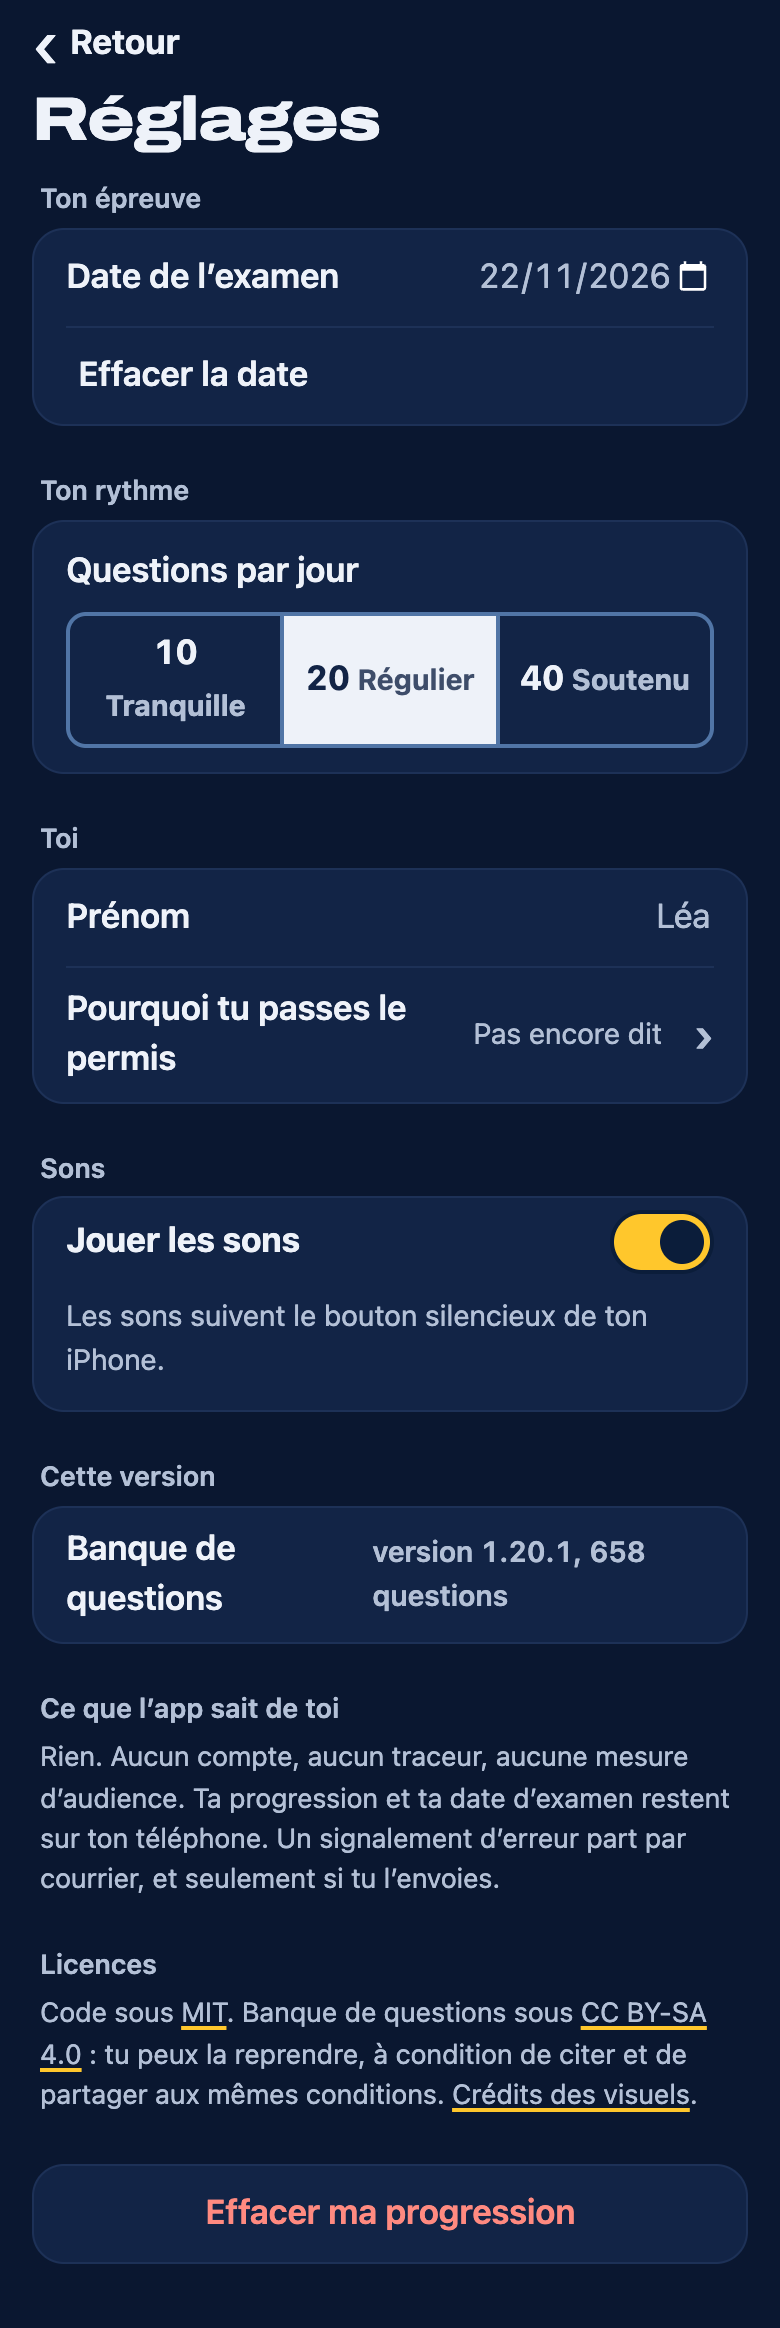
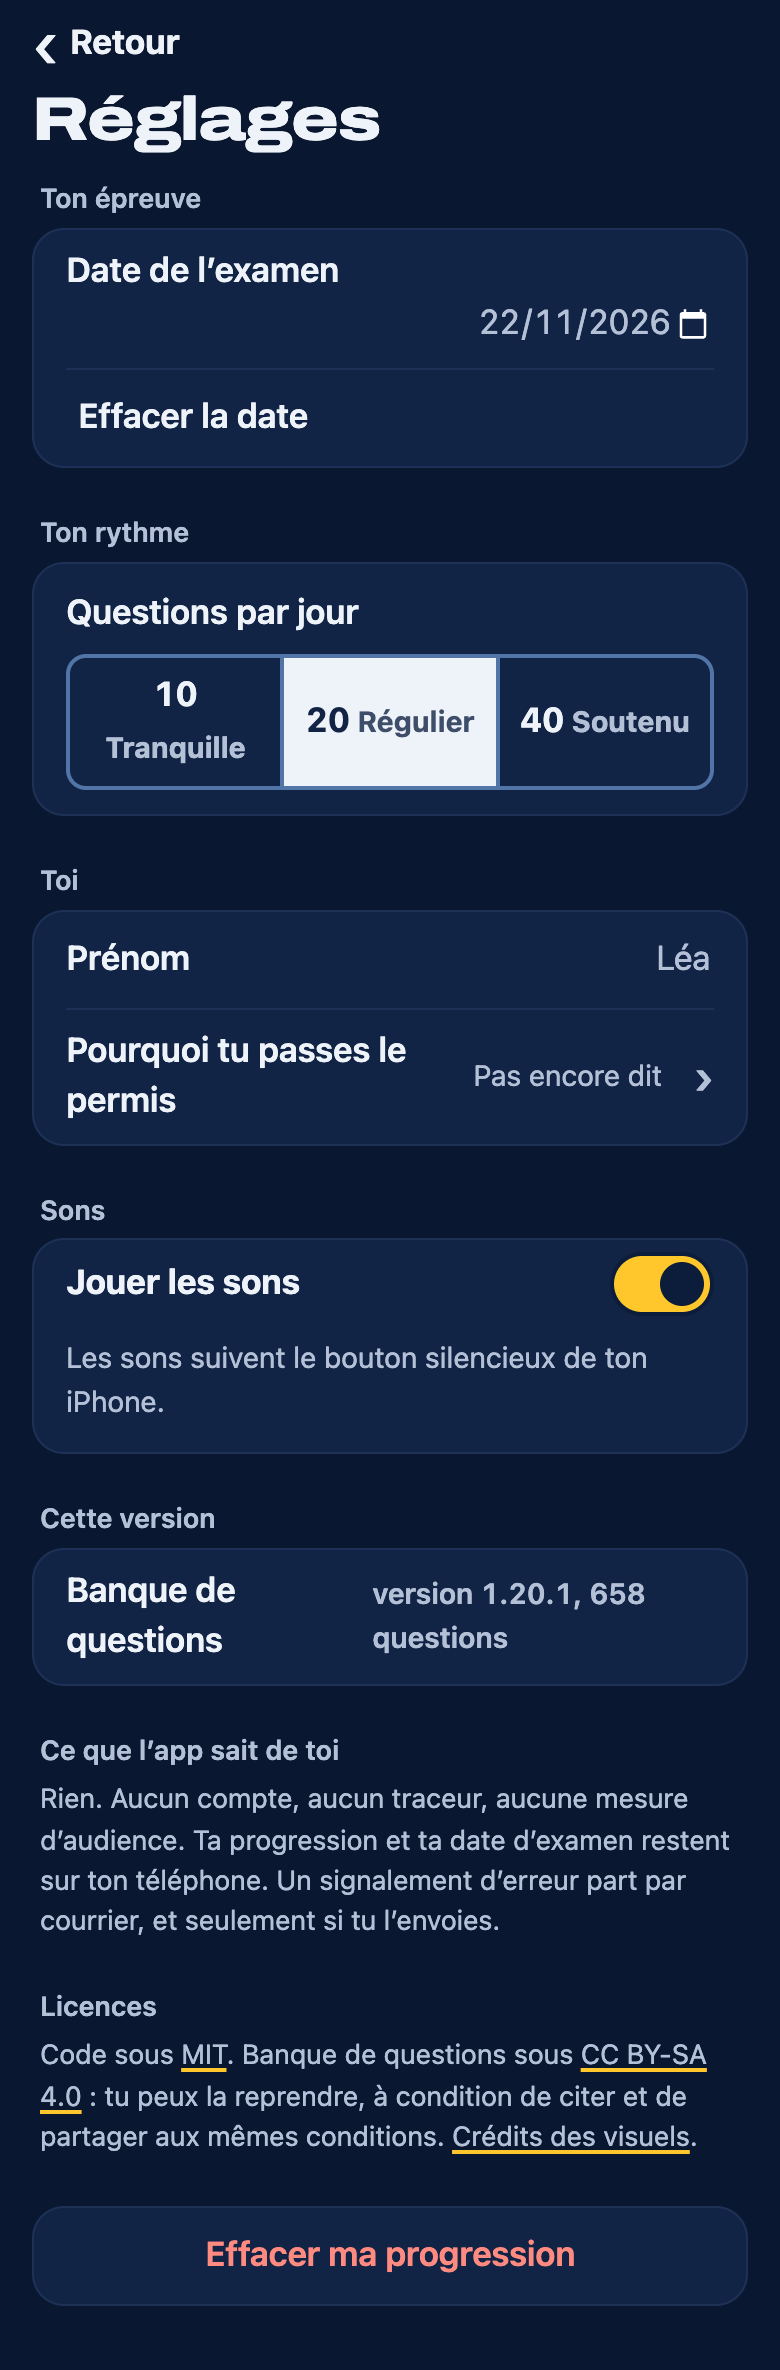
Réglages sans débordement à gros corps, focus après Effacer, meta de l'app, Retour du départ vers Réglages

diff --git a/src/styles/app-ecrans.css b/src/styles/app-ecrans.css
@@ -405,7 +405,8 @@ html[data-app] .memo__source .marque {
 /* ------------------------------------------------------------ Les réglages
    Groupés comme ceux d'iOS : un petit titre doux, une carte de cellules à
    filet dessous. Le contrôle segmenté du rythme se partage la largeur. */
-html[data-app] .reglagesApp { display: grid; gap: 1.5rem; max-width: none; }
+html[data-app] .reglagesApp { display: grid; grid-template-columns: minmax(0, 1fr); gap: 1.5rem; max-width: none; }
+html[data-app] .reglagesApp > section { min-width: 0; }
 html[data-app] .reglagesApp__titre {
   margin: 0 0 0.4rem 0.25rem;
   font-size: 0.85rem;
@@ -414,8 +415,10 @@ html[data-app] .reglagesApp__titre {
   text-transform: none;
   color: var(--texte-doux);
 }
+/* Une ligne qui ne tient pas passe à la ligne : le libellé au-dessus, le champ dessous. */
+html[data-app] .reglagesApp label.cellules__ligne { flex-wrap: wrap; row-gap: 0; }
 html[data-app] .reglagesApp__champ {
-  flex: 1;
+  flex: 1 1 8em;
   min-width: 0;
   border: 0;
   background: transparent;
@@ -438,7 +441,14 @@ html[data-app] .reglagesApp__bouton:active { background: var(--fond-2); }
 html[data-app] .reglagesApp__danger { justify-content: center; color: var(--rouge-texte); }
 html[data-app] .reglagesApp__pile { display: grid; gap: 0.5rem; padding-block: 0.75rem; }
 html[data-app] .reglagesApp__libelle { margin: 0; font-weight: 600; }
-html[data-app] .reglagesApp__pile .segmente { display: flex; flex-wrap: nowrap; }
+html[data-app] .reglagesApp__pile { container-type: inline-size; }
+html[data-app] .reglagesApp__pile .segmente { display: flex; flex-wrap: nowrap; min-width: 0; }
+/* Trop étroit pour trois options côte à côte : elles s'empilent. Le seuil est
+   en rem, il suit la taille du texte. */
+@container (max-width: 19rem) {
+  html[data-app] .reglagesApp__pile .segmente { flex-direction: column; }
+  html[data-app] .reglagesApp__pile .segmente__option + .segmente__option { border-left: 0; border-top: 2px solid var(--filet-fort); }
+}
 html[data-app] .reglagesApp__pile .segmente__option { flex: 1 1 0; padding-inline: 0.4rem; }
 html[data-app] .reglagesApp__valeur {
   flex-shrink: 0;
@@ -491,5 +501,13 @@ html[data-app] .alerte__bouton:active { background: var(--fond-2); }
 /* « Tous les thèmes » en bas de la liste : une cellule, comme dans Réglages. */
 html[data-app] .fiche__tous { margin: 0.75rem 0 0; }
 html[data-app] .fiche__tous .cellules__ligne { padding-inline: 0; }
-/* La date garde sa largeur : à 28 px de corps, elle se coupait. */
-html[data-app] .reglagesApp__champ[type="date"] { flex: none; }
+html[data-app] .reglagesApp__champ[type="date"] { flex: 1 1 10.5em; }
+
+/* La Fiche et ses thèmes à gros corps : ce qui ne tient pas passe à la ligne. */
+html[data-app] .indice__nombre { flex-wrap: wrap; }
+html[data-app] .maitrise--neufs a { flex-wrap: wrap; column-gap: 0.75rem; }
+/* La ligne « Pourquoi tu passes le permis » : le libellé garde une largeur
+   lisible, la valeur et le chevron passent dessous quand il le faut. */
+html[data-app] .reglagesApp a.cellules__ligne { flex-wrap: wrap; row-gap: 0; }
+html[data-app] .reglagesApp a.cellules__ligne > :first-child { flex: 1 1 9em; }
+html[data-app] .reglagesApp a.cellules__ligne .cellules__chevron { margin-left: auto; }

diff --git a/src/lib/retour.ts b/src/lib/retour.ts
@@ -13,7 +13,7 @@
  */
 
 /** Les seules adresses vers lesquelles une leçon accepte de renvoyer. */
-const ADRESSES_DE_RETOUR = /^\/(?:revoir|profil\/erreurs|entrainement\/(?:notion\/)?[a-z0-9-]+)$/;
+const ADRESSES_DE_RETOUR = /^\/(?:revoir|parametres|profil\/erreurs|entrainement\/(?:notion\/)?[a-z0-9-]+)$/;
 
 export const PARAMETRE_RETOUR = 'retour';
 
@@ -32,6 +32,7 @@ export function cheminRetour(recherche: string): string | null {
 /** Ce que dit le bouton du retour : le nom de l'écran d'où l'on vient. */
 export function libelleRetour(chemin: string): string {
   if (chemin === '/profil/erreurs') return 'Revenir à mes erreurs';
+  if (chemin === '/parametres') return 'Revenir à tes réglages';
   if (chemin === '/revoir') return 'Revenir à ta série du jour';
   return 'Revenir à ta série';
 }
@@ -46,4 +47,19 @@ export function libelleRetour(chemin: string): string {
 export function lienLecon(theme: string, notion: string, retour: string): string {
   const requete = new URLSearchParams({ [PARAMETRE_RETOUR]: retour });
   return `/cours/${theme}/${notion}?${requete}`;
+}
+
+/**
+ * Dans l'app, le bouton Retour d'une page est un lien posé au build, vers son
+ * échelon du dessus. Quand on y arrive d'ailleurs (le questionnaire de départ,
+ * ouvert depuis Réglages), la requête le dit : le lien est réécrit, avec la
+ * même liste fermée d'adresses que le reste.
+ */
+export function ajusterRetourApp(doc: Document, recherche: string): void {
+  const chemin = cheminRetour(recherche);
+  const lien = doc.querySelector<HTMLAnchorElement>('.retour__lien');
+  if (!chemin || !lien) return;
+  lien.setAttribute('href', chemin);
+  const nom = lien.querySelector('.visuellement-cache');
+  if (nom) nom.textContent = ` : ${chemin === '/parametres' ? 'Réglages' : 'écran précédent'}`;
 }

diff --git a/src/lib/retour.test.ts b/src/lib/retour.test.ts
@@ -1,5 +1,6 @@
+/** @vitest-environment jsdom */
 import { describe, it, expect } from 'vitest';
-import { cheminRetour, libelleRetour, lienLecon } from './retour';
+import { cheminRetour, libelleRetour, lienLecon, ajusterRetourApp } from './retour';
 
 describe('le retour vers la série', () => {
   it('accepte les seules adresses de jeu du site', () => {
@@ -37,5 +38,33 @@ describe('le retour vers la série', () => {
     expect(lienLecon('balisage', 'balisage-lateral', '/revoir')).toBe(
       '/cours/balisage/balisage-lateral?retour=%2Frevoir',
     );
+  });
+});
+
+describe('le retour vers les réglages', () => {
+  it('accepte /parametres, et le dit', () => {
+    expect(cheminRetour('?retour=%2Fparametres')).toBe('/parametres');
+    expect(cheminRetour('?retour=%2Fparametres%3Fx%3D1')).toBeNull();
+    expect(libelleRetour('/parametres')).toBe('Revenir à tes réglages');
+  });
+});
+
+describe('ajusterRetourApp', () => {
+  function page() {
+    document.body.innerHTML =
+      '<a class="retour__lien" href="/profil"><span aria-hidden="true">‹</span>Retour<span class="visuellement-cache"> : Ta fiche</span></a>';
+  }
+  it('réécrit le lien de retour quand la requête en porte un valable', () => {
+    page();
+    ajusterRetourApp(document, '?retour=%2Fparametres');
+    const a = document.querySelector('a')!;
+    expect(a.getAttribute('href')).toBe('/parametres');
+    expect(a.textContent).toContain('Retour : Réglages');
+  });
+  it('ne touche à rien sans retour valable', () => {
+    page();
+    ajusterRetourApp(document, '?retour=https%3A%2F%2Fexemple.fr');
+    ajusterRetourApp(document, '');
+    expect(document.querySelector('a')!.getAttribute('href')).toBe('/profil');
   });
 });

diff --git a/src/components/ReglagesApp.tsx b/src/components/ReglagesApp.tsx
@@ -26,6 +26,12 @@ export default function ReglagesApp({ version, total }: Props) {
   const [alerte, setAlerte] = useState(false);
   const [efface, setEfface] = useState(false);
   const declencheur = useRef<HTMLButtonElement>(null);
+  const message = useRef<HTMLParagraphElement>(null);
+
+  // La cellule d'effacement a disparu : le focus passe au message qui le dit.
+  useEffect(() => {
+    if (efface) message.current?.focus({ preventScroll: true });
+  }, [efface]);
 
   useEffect(() => setEtat(charger()), []);
   useEffect(() => surProgressionChangee(() => setEtat(charger())), []);
@@ -129,7 +135,7 @@ export default function ReglagesApp({ version, total }: Props) {
             </label>
           </li>
           <li>
-            <a className="cellules__ligne" href="/profil/depart">
+            <a className="cellules__ligne" href="/profil/depart?retour=%2Fparametres">
               <span>Pourquoi tu passes le permis</span>
               <span className="reglagesApp__valeur discret">{raison ?? 'Pas encore dit'}</span>
               <span className="cellules__chevron" aria-hidden="true">›</span>
@@ -178,7 +184,7 @@ export default function ReglagesApp({ version, total }: Props) {
 
       <section aria-label="Effacer">
         {rien ? (
-          <p className="reglagesApp__pied" role={efface ? 'status' : undefined}>
+          <p ref={message} className="reglagesApp__pied" role={efface ? 'status' : undefined} tabIndex={efface ? -1 : undefined}>
             {efface ? 'Progression effacée.' : 'Rien à effacer pour l’instant.'}
           </p>
         ) : (

diff --git a/src/components/ReglagesApp.test.tsx b/src/components/ReglagesApp.test.tsx
@@ -77,7 +77,7 @@ describe('les réglages de l’app', () => {
   it('mène à la raison, et dit celle qui est écrite', () => {
     rendre();
     const lien = screen.getByRole('link', { name: /Pourquoi tu passes le permis/ });
-    expect(lien.getAttribute('href')).toBe('/profil/depart');
+    expect(lien.getAttribute('href')).toBe('/profil/depart?retour=%2Fparametres');
     expect(lien.textContent).toContain('Pas encore dit');
     cleanup();
     sauvegarder(enregistrerProfil(etatInitial(), { ...profilVide(), phrase: 'Emmener mon père pêcher.', rempliLe: '2026-09-01' }));
@@ -152,5 +152,17 @@ describe('effacer la progression', () => {
     expect(screen.queryByRole('alertdialog')).toBeNull();
     expect(screen.getByRole('status').textContent).toBe('Progression effacée.');
     expect((screen.getByLabelText('Date de l’examen') as HTMLInputElement).value).toBe('');
+  });
+
+  it('pose le focus sur le message une fois la cellule disparue', () => {
+    remplir();
+    rendre();
+    fireEvent.click(screen.getByRole('button', { name: 'Effacer ma progression' }));
+    act(() => {
+      fireEvent.click(within(screen.getByRole('alertdialog')).getByRole('button', { name: 'Effacer' }));
+    });
+    const message = screen.getByRole('status');
+    expect(message.getAttribute('tabindex')).toBe('-1');
+    expect(document.activeElement).toBe(message);
   });
 });

diff --git a/src/components/Questionnaire.app.test.tsx b/src/components/Questionnaire.app.test.tsx
@@ -1,0 +1,30 @@
+/** @vitest-environment jsdom */
+/** Le questionnaire dans la coquille : ouvert depuis Réglages, son Retour y ramène. */
+import { describe, it, expect, beforeEach, afterEach, vi } from 'vitest';
+import { cleanup, render } from '@testing-library/react';
+import Questionnaire from './Questionnaire';
+
+vi.mock('../lib/cible', () => ({ POUR_APP: true }));
+
+beforeEach(() => {
+  localStorage.clear();
+  window.scrollTo = vi.fn();
+  document.body.innerHTML =
+    '<a class="retour__lien" href="/profil"><span class="visuellement-cache"> : Ta fiche</span></a><div id="racine"></div>';
+});
+afterEach(() => {
+  cleanup();
+  history.replaceState(null, '', '/');
+});
+
+describe('le retour du questionnaire dans l’app', () => {
+  it('ramène à Réglages quand la requête le dit', () => {
+    history.replaceState(null, '', '/profil/depart?retour=%2Fparametres');
+    render(<Questionnaire totalQuestions={10} />, { container: document.getElementById('racine')! });
+    expect(document.querySelector('.retour__lien')!.getAttribute('href')).toBe('/parametres');
+  });
+  it('garde la Fiche sans requête', () => {
+    render(<Questionnaire totalQuestions={10} />, { container: document.getElementById('racine')! });
+    expect(document.querySelector('.retour__lien')!.getAttribute('href')).toBe('/profil');
+  });
+});

diff --git a/src/components/Questionnaire.tsx b/src/components/Questionnaire.tsx
@@ -5,6 +5,7 @@ import { DEPARTS, MOTIVATIONS, RYTHMES, joursAvant, pointFinal, rappel } from '.
 import { evenement } from '../lib/mesure';
 import { douceur } from '../lib/douceur';
 import { POUR_APP } from '../lib/cible';
+import { ajusterRetourApp } from '../lib/retour';
 import './profil.css';
 
 /**
@@ -35,6 +36,11 @@ export default function Questionnaire({ totalQuestions }: Props) {
     const etat = charger();
     setProfil(etat.profil);
     setDateExamen(etat.dateExamen ?? '');
+  }, []);
+
+  // Ouvert depuis Réglages, le Retour y ramène plutôt qu'à la Fiche.
+  useEffect(() => {
+    if (POUR_APP) ajusterRetourApp(document, window.location.search);
   }, []);
 
   // Chaque écran commence en haut, le titre prend le focus : au lecteur
